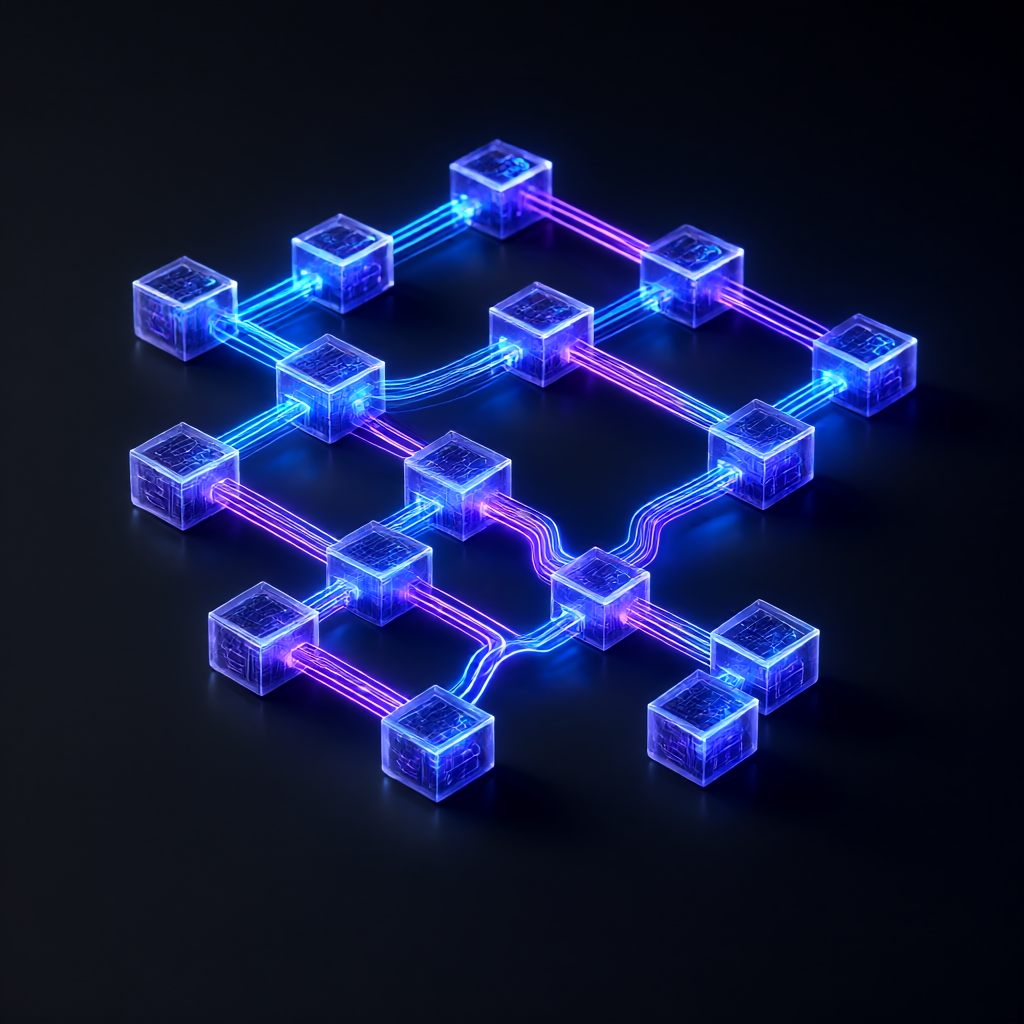
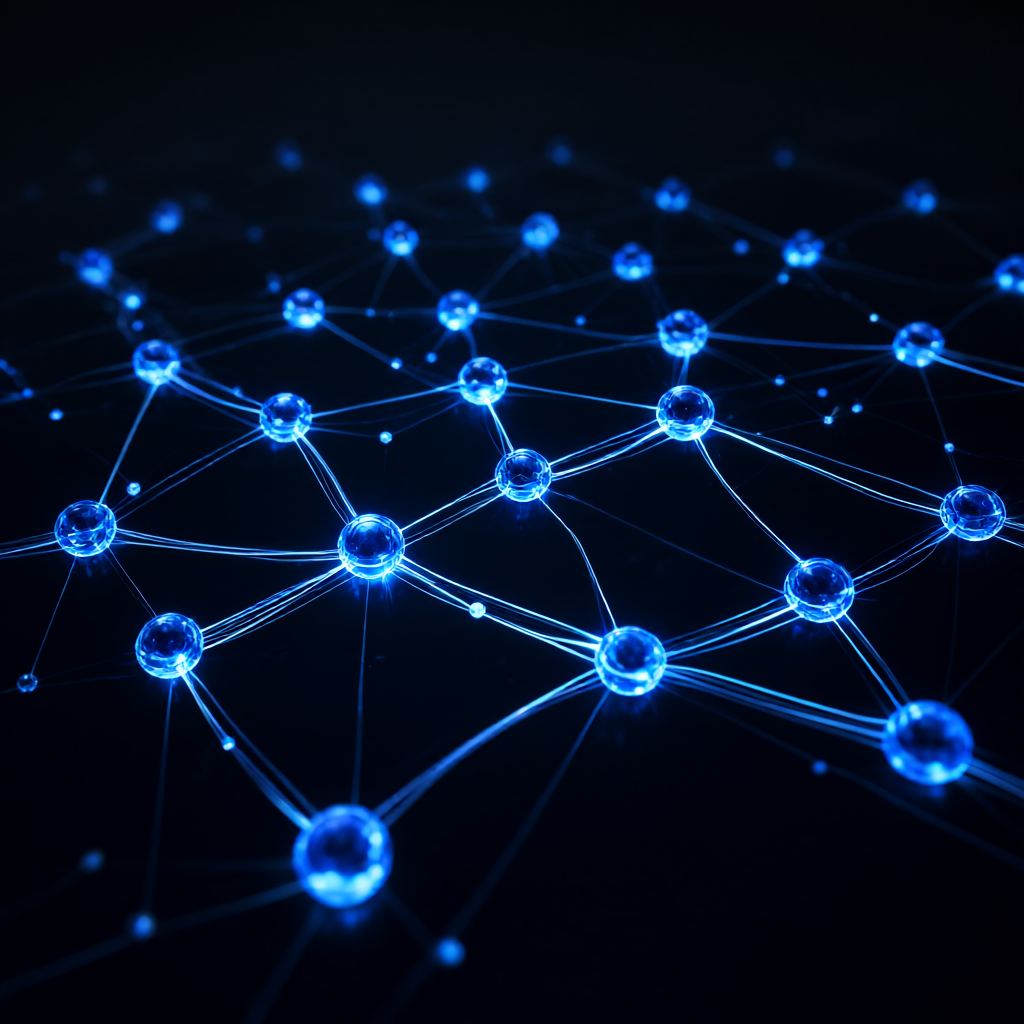
auto: 发布文章 opensre

diff --git a/source/_posts/opensre.md b/source/_posts/opensre.md
@@ -1,0 +1,87 @@
+---
+title: "CI/CD工程师用了OpenSRE"
+date: 2026-11-21 05:02:35
+tags: [GitHub, 技术分享]
+---
+
+![illustration](/images/illustration_01.png)
+
+
+
+![illustration](/images/illustration_02.png)
+
+## 痛点：一个具体的麻烦
+
+上周三凌晨两点，CI 流水线炸了。Slack 推送了一条红消息，我迷迷糊糊爬起来看——编译报错，但我完全不知道原因在哪，也没人告诉我怎么修。只能自己打开 Jenkins 控制台，一页页翻日志，找那个红色的 stack trace，然后去 Stack Overflow 搜类似问题，最后花了一个小时定位是某个依赖版本被上游更新了导致 break。第二天 standup 又被 PM 问为什么这次发布延迟了。
+
+这种场景我们团队至少每周都能碰上两三次。每次都是同样的流程：收到通知→翻日志→猜问题→搜方案→试错→修好。有时候运气好能快速定位，有时候折腾半天发现只是个配置写错了。最烦的是，同一个问题隔几周又会出现一次，因为没人沉淀排查经验。
+
+
+![illustration](/images/illustration_03.png)
+
+## 之前我们是怎么做的
+
+我们的排查流程很土，但也很真实：
+
+1. **收到 CI 失败通知**：Jenkins / GitLab CI / GitHub Actions 推一条消息到 Slack 频道，附带构建链接。
+2. **手动查看构建日志**：点进流水线页面，往上滚，找一个看起来像错误的行。
+3. **尝试定位失败原因**：复制那段 error message，在脑子里（或者 Google）匹配有没有见过的 pattern。
+4. **搜索解决方案**：去 GitHub Issues 或 Stack Overflow 搜关键词，看看别人踩过什么坑。
+5. **手动实施修复**：改代码、改配置、重跑流水线，然后验证。
+
+整个过程没有任何工具介入分析，全靠人的经验积累。一个新来的同学接手的成本很高，而且老同学休假的时候，团队整体 debug 效率会掉一半。
+
+## 为什么最后选了这个项目
+
+之前也看过几个方向，最终选了 OpenSRE。
+
+第一个替代方案是用现成的 SRE 平台，比如 Datadog 或者 PagerDuty 的自动化剧本功能。但这些方案要么要付订阅费，要么配置复杂到要专门招一个人来维护规则。对于我们这种小团队来说，性价比不高。
+
+第二个方案是自己写脚本解析日志。技术上可行，但要覆盖各种可能的失败类型几乎不可能——每个项目、每种错误格式都得单独处理，维护成本比想象中高得多。而且一旦 CI 平台升级或者报错格式变了，脚本又要改。
+
+OpenSRE 吸引我的地方在于它是一个 CLI agent，部署简单，用的是本地模型而不是第三方 API，这意味着配置敏感信息不用往外传。README 里说它是 "self-hosted，with your own models"，这对我们这种对数据安全有要求的团队很重要。另外它的定位非常聚焦：就干一件事，读失败的构建记录，追踪根因，然后推送修复建议让你 review。不做多余的活，也不承诺做不到的事。
+
+## 关键步骤
+
+安装部分 README 写得很清楚，一步搞定：
+
+```bash
+curl -fsSL https://install.opensre.com | bash -s -- -gh
+```
+
+然后是启动 agent：
+
+```bash
+opensre
+```
+
+这里有个取舍——你需要提供一个 git 仓库路径，这样 agent 才能关联上下文。README 建议在运行 opensre 的项目目录下执行，它会利用 `.git` 目录里的 commit 信息和变更记录来做根因追踪。
+
+接下来是关键的动作：让 agent 分析一次失败的流水线运行。从 README 的描述来看，它通过读取 CI 系统的失败记录（failed run），然后追溯相关变更来判断原因。实际操作中应该是类似这样的交互：
+
+```
+> 指定失败流水线的 ID 或引用链接
+> Agent 开始分析（会展示进度和推理过程）
+> 输出根因分析和可选的修复方案
+```
+
+README 提到修复建议会以 diff 的形式推出来，需要人工 review 后才应用。这点设计我觉得合理——AI 给出的修复可能有误，留给人来把关更安全。
+
+## 跑完之后
+
+根据 README 的描述，部署完成后，当 CI 流水线失败时，你可以调用 OpenSRE CLI agent 来分析失败原因并获取修复建议。它会读取失败的构建记录、追踪相关变更、给出根因推断，并以 diff 的形式推送修复方案供你审查。整个流程的核心价值是把「人从翻日志、搜文档、猜原因」这个过程里解放出来，让 agent 先替你完成信息收集和分析。
+
+项目当前处于 public alpha 阶段，API 和集成方式可能会变化。这意味着如果你决定在生产环境用起来，要做好适配更新的准备。另外，它需要你自己提供 LLM 模型，无论是本地的 Ollama 还是其他兼容接口，这部分的基础设施需要提前准备好。
+
+## 适合谁 / 不适合谁
+
+**适合**：你的团队已经在用 GitHub Actions / GitLab CI / Jenkins 这类主流 CI 平台，希望减少重复性的人工排查工作量；你对数据安全比较在意，不愿意把构建日志和代码放到第三方 SaaS 上；你们已经有本地或自托管的 LLM 基础设施（比如 Ollama）。
+
+**不适合**：你的 CI 系统是非标准的、很难拿到失败记录的私有部署；你期望开箱即用、零配置的方案（OpenSRE 目前还是需要自己装模型、配环境的）；你对 alpha 阶段的稳定性无法接受任何波动。
+
+> 本文基于 Tracer-Cloud/opensre 的 README 与公开信息整理，未做完整实测，关键步骤仅供参考。
+
+---
+
+![关注公众号](/images/footer.png)
+
